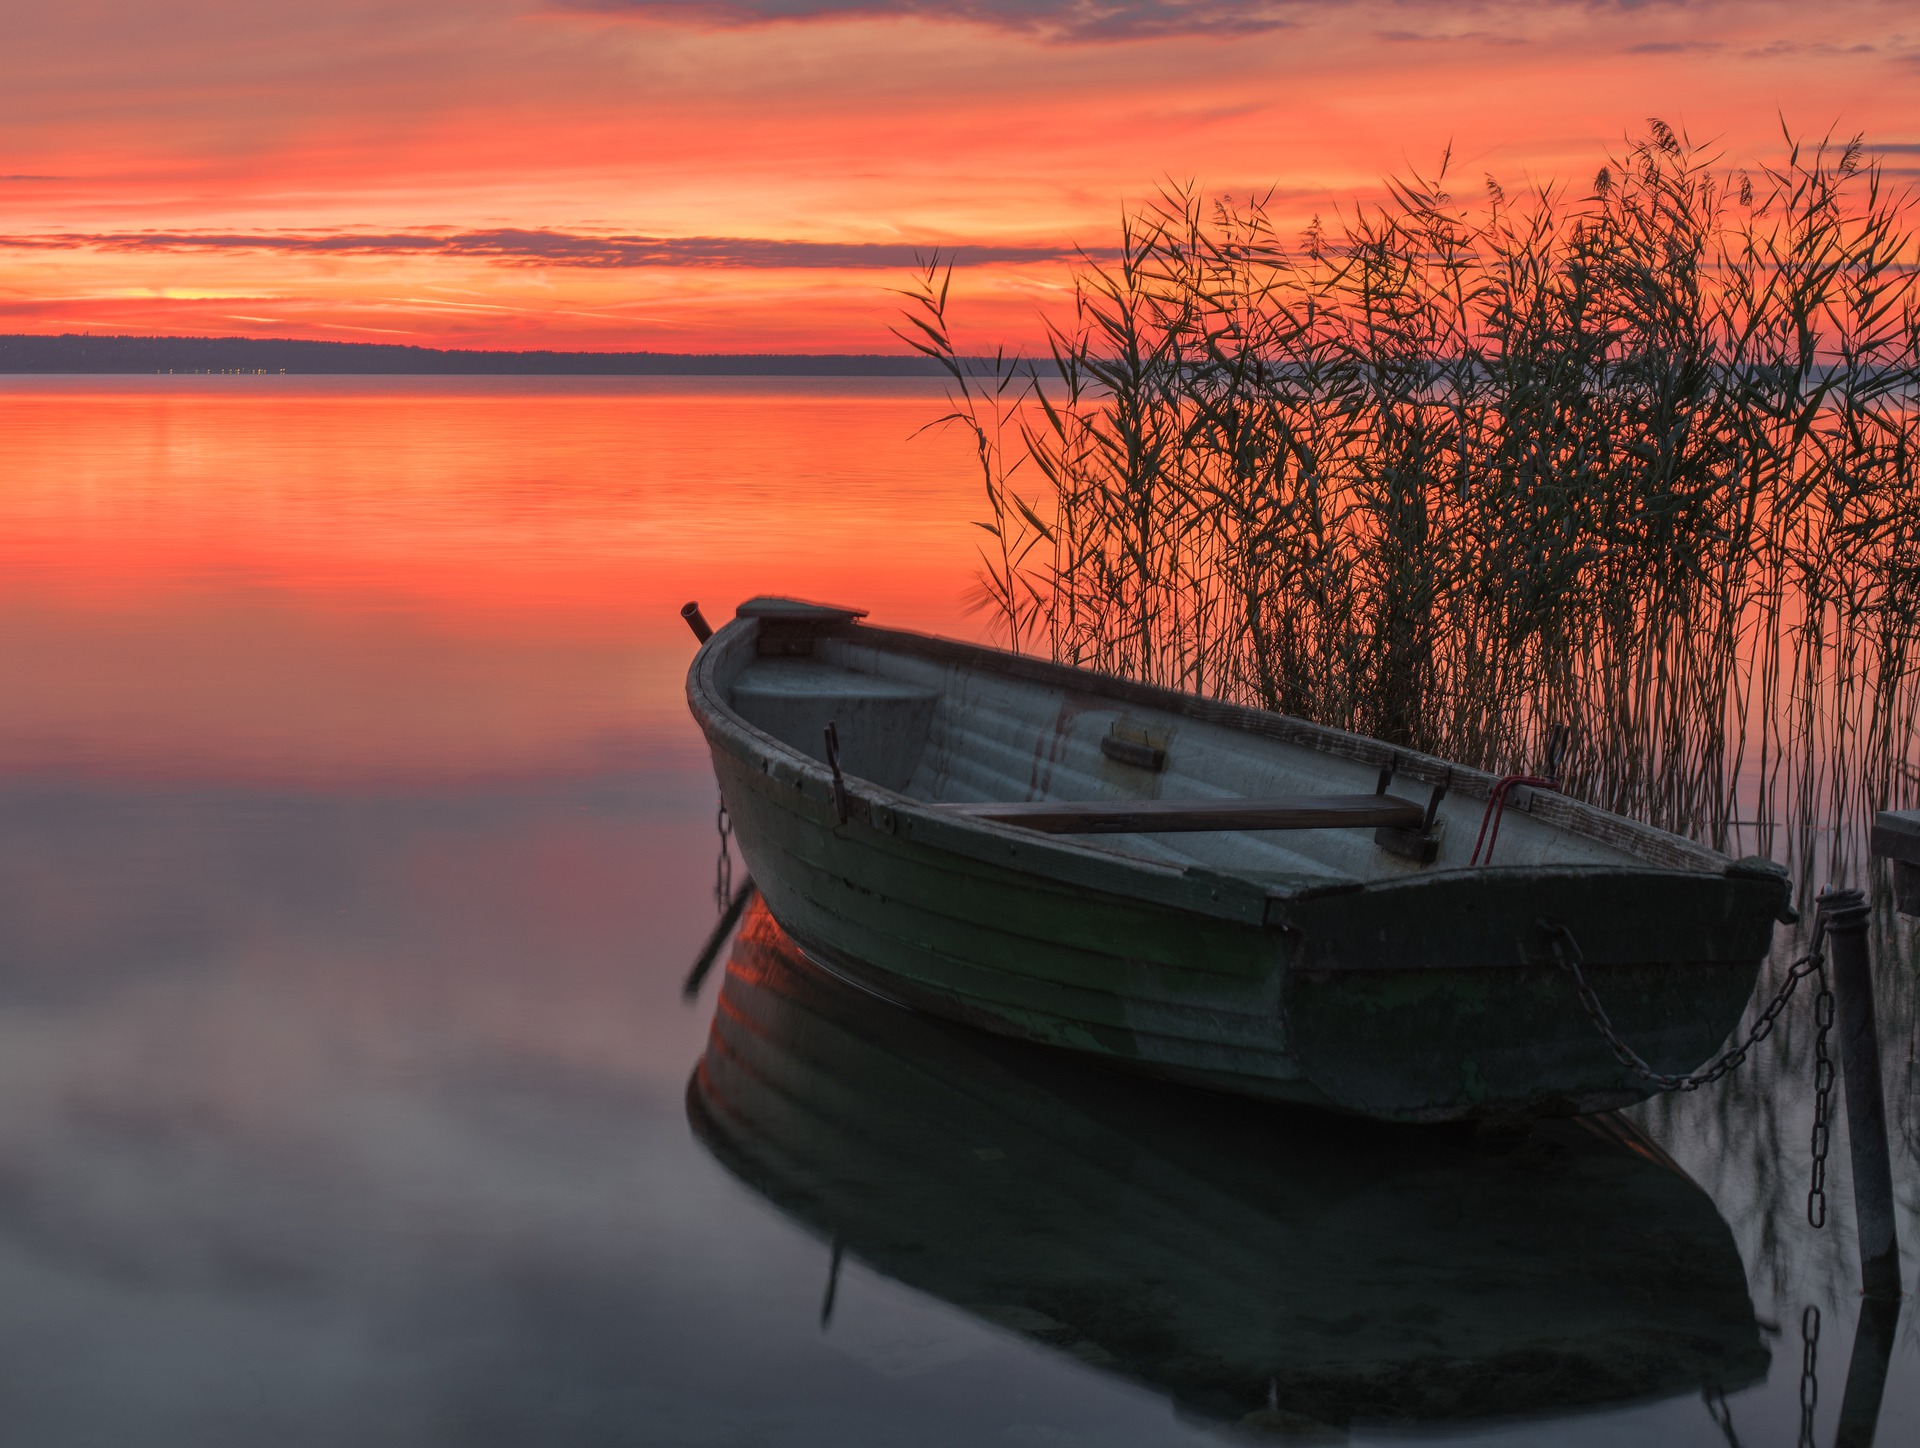
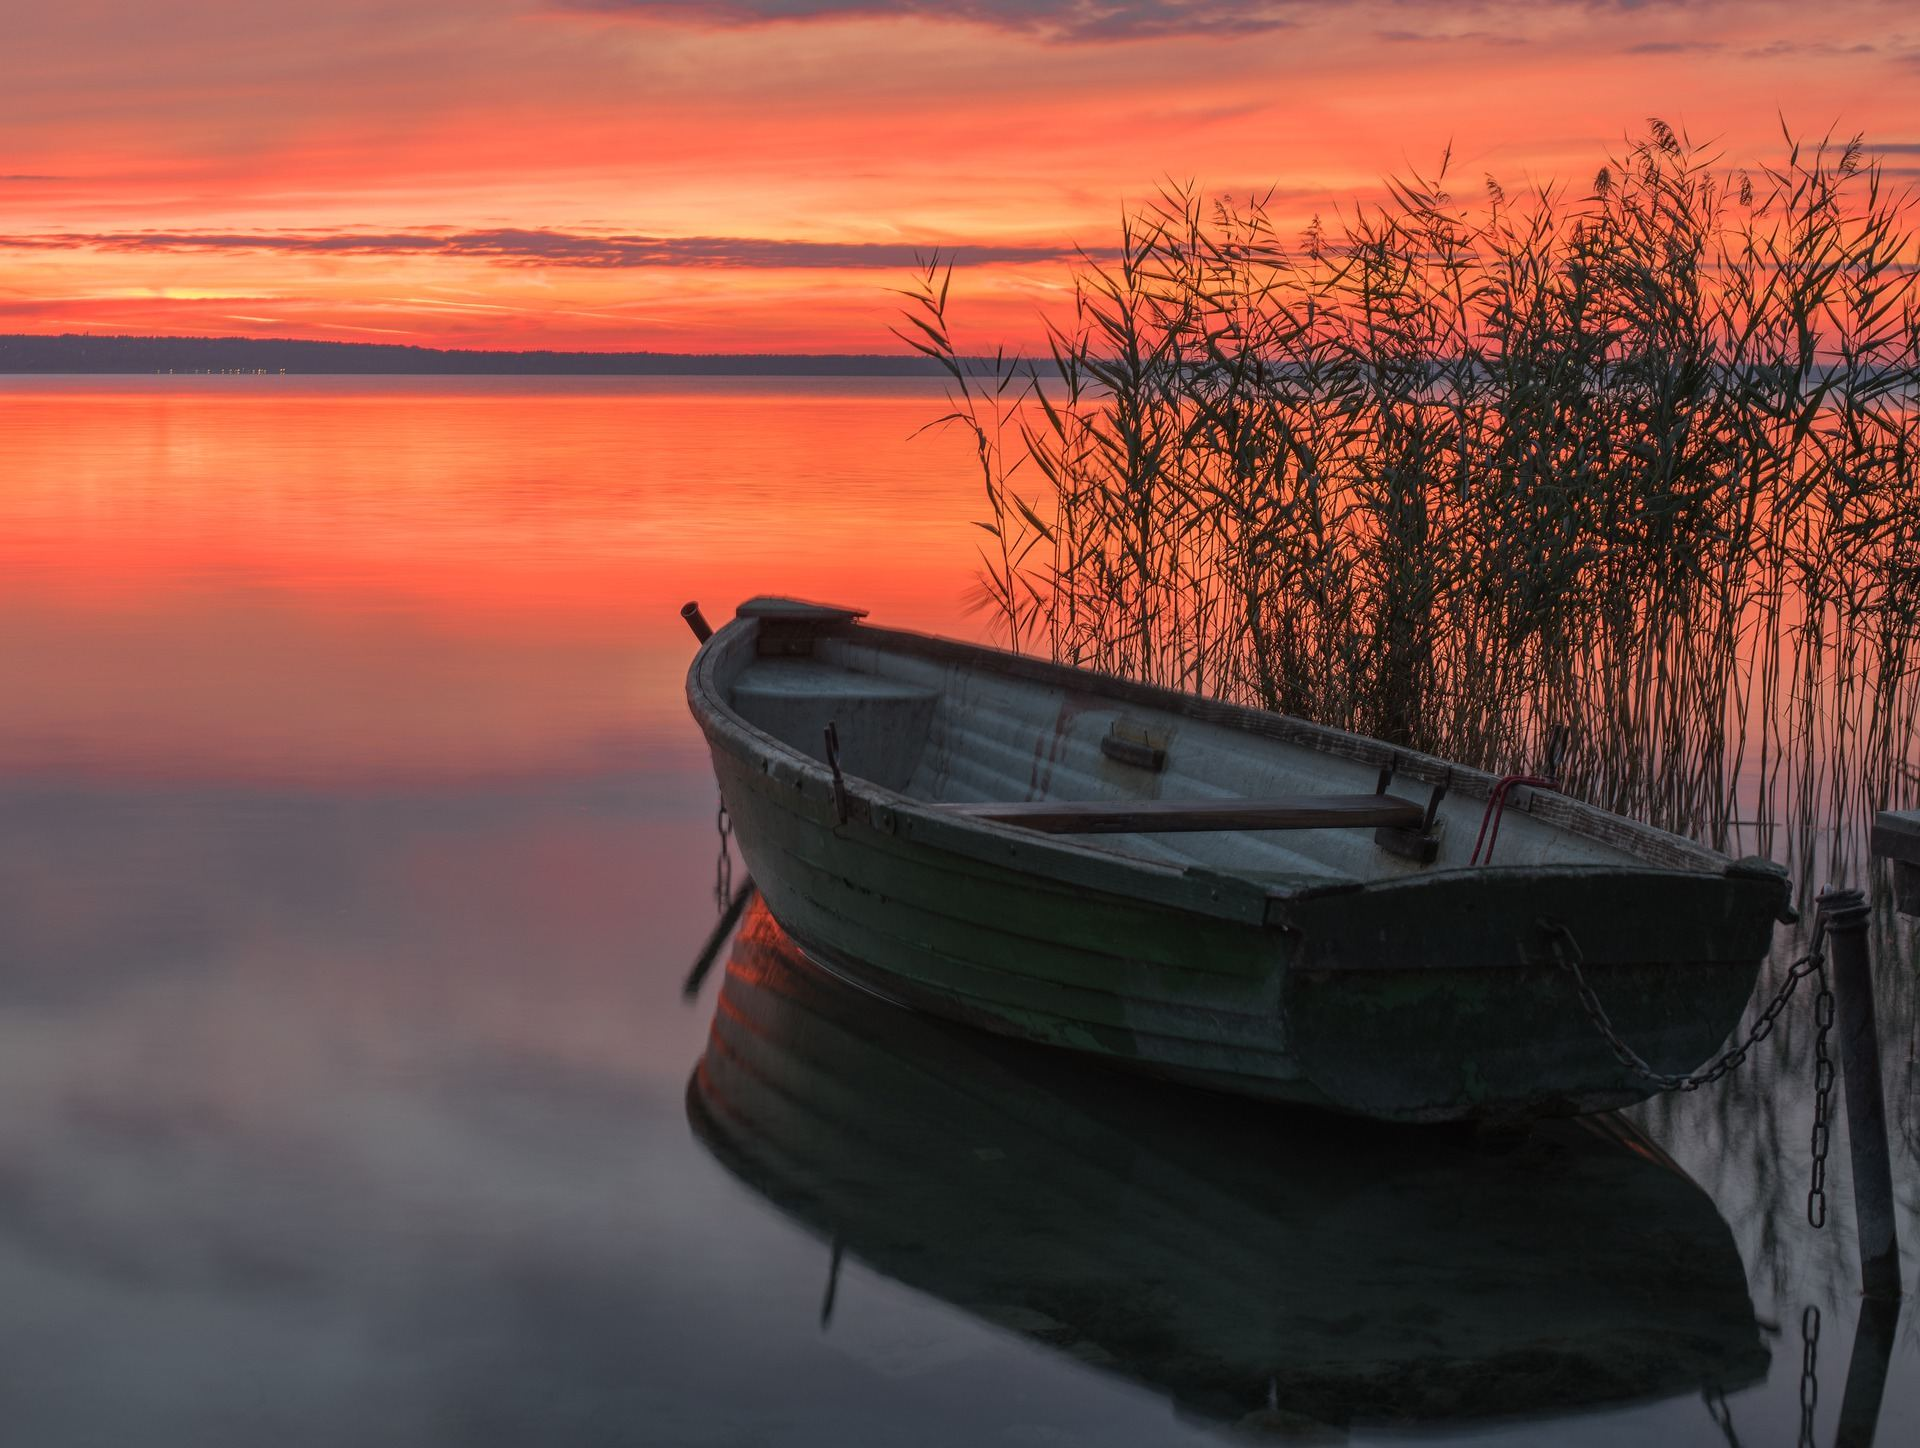
seo

diff --git a/index_de.html b/index_de.html
@@ -5,17 +5,44 @@
     <meta charset="utf-8">
     <meta content="width=device-width, initial-scale=1.0" name="viewport">
 
-    <title>Urlaub am Plattensee | Familienfreundliche Apartments</title>
-    <meta name="description" content="Komfortable, familienfreundliche Apartments in Balatonlelle. Zwei Apartments mit separatem Eingang mit 3-3 Zimmern für 6-6 Personen.">
-    <meta name="keywords" content="Apartments, Urlaub, Balaton, Balatonlelle, Plattensee">
-    <meta property="og:title" content="Urlaub am Plattensee | Familienfreundliche Apartments">
-    <meta property="og:description" content="Komfortable, familienfreundliche Apartments in Balatonlelle. Zwei Apartments mit separatem Eingang mit 3-3 Zimmern für 6-6 Personen.">
+    <title>Apartments in Balatonlelle | Klimatisierter Urlaub am Plattensee</title>
+    <meta name="description" content="Klimatisierte, familienfreundliche Apartments in Balatonlelle, 10-15 Minuten zu Fuß vom Plattensee. Zwei Apartments mit separatem Eingang für je 6 Personen, Garten und Pool.">
+    <meta name="keywords" content="Apartment Balatonlelle, Unterkunft Plattensee, Urlaub am Balaton, klimatisiertes Apartment, familienfreundlich Balaton, Südufer Plattensee">
+    <meta name="robots" content="index, follow">
+    <meta name="author" content="Gisz Bt.">
+    <meta name="theme-color" content="#0a3e4f">
+
+    <!-- Canonical + language alternates (hreflang) -->
+    <link rel="canonical" href="https://szabi84.github.io/holiday/index_de.html">
+    <link rel="alternate" hreflang="hu" href="https://szabi84.github.io/holiday/index.html">
+    <link rel="alternate" hreflang="en" href="https://szabi84.github.io/holiday/index_en.html">
+    <link rel="alternate" hreflang="de" href="https://szabi84.github.io/holiday/index_de.html">
+    <link rel="alternate" hreflang="x-default" href="https://szabi84.github.io/holiday/index.html">
+
+    <!-- Open Graph -->
+    <meta property="og:site_name" content="Urlaub in Balatonlelle">
+    <meta property="og:title" content="Apartments in Balatonlelle | Klimatisierter Urlaub am Plattensee">
+    <meta property="og:description" content="Klimatisierte, familienfreundliche Apartments in Balatonlelle, 10-15 Minuten zu Fuß vom Plattensee. Zwei Apartments mit separatem Eingang für je 6 Personen, Garten und Pool.">
     <meta property="og:type" content="website">
-    <meta property="og:image" content="assets/img/hero-bg.jpg">
+    <meta property="og:url" content="https://szabi84.github.io/holiday/index_de.html">
+    <meta property="og:image" content="https://szabi84.github.io/holiday/assets/img/og-image.jpg">
+    <meta property="og:image:width" content="1200">
+    <meta property="og:image:height" content="630">
+    <meta property="og:image:alt" content="Sonnenuntergang am Plattensee mit einem Ruderboot">
+    <meta property="og:locale" content="de_DE">
+    <meta property="og:locale:alternate" content="hu_HU">
+    <meta property="og:locale:alternate" content="en_US">
+
+    <!-- Twitter Card -->
+    <meta name="twitter:card" content="summary_large_image">
+    <meta name="twitter:title" content="Apartments in Balatonlelle | Klimatisierter Urlaub am Plattensee">
+    <meta name="twitter:description" content="Klimatisierte, familienfreundliche Apartments in Balatonlelle, 10-15 Minuten zu Fuß vom Plattensee. Zwei Apartments mit separatem Eingang für je 6 Personen, Garten und Pool.">
+    <meta name="twitter:image" content="https://szabi84.github.io/holiday/assets/img/og-image.jpg">
 
     <link href="assets/img/favicon.ico" rel="icon">
     <link href="assets/img/favicon.ico" rel="apple-touch-icon">
 
+    <link rel="preload" as="image" href="assets/img/hero-bg.jpg" fetchpriority="high">
     <link rel="preconnect" href="https://fonts.googleapis.com">
     <link rel="preconnect" href="https://fonts.gstatic.com" crossorigin>
     <link href="https://fonts.googleapis.com/css2?family=Fraunces:opsz,wght@9..144,500;9..144,600;9..144,700&family=Inter:wght@400;500;600;700&display=swap" rel="stylesheet">
@@ -23,6 +50,8 @@
     <link href="assets/vendor/boxicons/css/boxicons.min.css" rel="stylesheet">
 
     <link href="assets/css/style.css" rel="stylesheet">
+
+    <script type="application/ld+json">{"@context": "https://schema.org", "@type": "LodgingBusiness", "name": "Urlaub in Balatonlelle", "description": "Klimatisierte, familienfreundliche Apartments in Balatonlelle, 10-15 Minuten zu Fuß vom Plattensee. Zwei Apartments mit separatem Eingang für je 6 Personen, Garten und Pool.", "url": "https://szabi84.github.io/holiday/index_de.html", "image": ["https://szabi84.github.io/holiday/assets/img/og-image.jpg", "https://szabi84.github.io/holiday/assets/img/hero-bg.jpg"], "telephone": "+36 20 200 1962", "email": "gergye.ferencne@gmail.com", "priceRange": "€€", "address": {"@type": "PostalAddress", "streetAddress": "Jánoskert u. 8.", "addressLocality": "Balatonlelle", "postalCode": "8638", "addressCountry": "HU"}, "geo": {"@type": "GeoCoordinates", "latitude": 46.77759, "longitude": 17.696441}, "sameAs": ["https://www.facebook.com/holiday.giszbt.hu"], "inLanguage": "de", "amenityFeature": [{"@type": "LocationFeatureSpecification", "name": "Air conditioning", "value": true}, {"@type": "LocationFeatureSpecification", "name": "Free WiFi", "value": true}, {"@type": "LocationFeatureSpecification", "name": "Free parking", "value": true}, {"@type": "LocationFeatureSpecification", "name": "Swimming pool", "value": true}]}</script>
 </head>
 
 <body>

diff --git a/index_en.html b/index_en.html
@@ -5,17 +5,44 @@
     <meta charset="utf-8">
     <meta content="width=device-width, initial-scale=1.0" name="viewport">
 
-    <title>Holiday in Balatonlelle | Family-friendly apartments</title>
-    <meta name="description" content="Comfortable, family-friendly apartments in Balatonlelle. Two apartments with separate entrances with 3-3 rooms for 6-6 people.">
-    <meta name="keywords" content="Apartment, Accommodation, Holiday, Balaton, Balatonlelle">
-    <meta property="og:title" content="Holiday in Balatonlelle | Family-friendly apartments">
-    <meta property="og:description" content="Comfortable, family-friendly apartments in Balatonlelle. Two apartments with separate entrances with 3-3 rooms for 6-6 people.">
+    <title>Apartments in Balatonlelle | Air-conditioned family holiday rental</title>
+    <meta name="description" content="Air-conditioned, family-friendly apartments in Balatonlelle, a 10-15 minute walk from Lake Balaton. Two apartments with separate entrances for 6 people each, garden and pool.">
+    <meta name="keywords" content="apartment Balatonlelle, Lake Balaton accommodation, holiday rental Balaton, air-conditioned apartment, family-friendly Balaton, south shore Lake Balaton">
+    <meta name="robots" content="index, follow">
+    <meta name="author" content="Gisz Bt.">
+    <meta name="theme-color" content="#0a3e4f">
+
+    <!-- Canonical + language alternates (hreflang) -->
+    <link rel="canonical" href="https://szabi84.github.io/holiday/index_en.html">
+    <link rel="alternate" hreflang="hu" href="https://szabi84.github.io/holiday/index.html">
+    <link rel="alternate" hreflang="en" href="https://szabi84.github.io/holiday/index_en.html">
+    <link rel="alternate" hreflang="de" href="https://szabi84.github.io/holiday/index_de.html">
+    <link rel="alternate" hreflang="x-default" href="https://szabi84.github.io/holiday/index.html">
+
+    <!-- Open Graph -->
+    <meta property="og:site_name" content="Holiday in Balatonlelle">
+    <meta property="og:title" content="Apartments in Balatonlelle | Air-conditioned family holiday rental">
+    <meta property="og:description" content="Air-conditioned, family-friendly apartments in Balatonlelle, a 10-15 minute walk from Lake Balaton. Two apartments with separate entrances for 6 people each, garden and pool.">
     <meta property="og:type" content="website">
-    <meta property="og:image" content="assets/img/hero-bg.jpg">
+    <meta property="og:url" content="https://szabi84.github.io/holiday/index_en.html">
+    <meta property="og:image" content="https://szabi84.github.io/holiday/assets/img/og-image.jpg">
+    <meta property="og:image:width" content="1200">
+    <meta property="og:image:height" content="630">
+    <meta property="og:image:alt" content="Sunset over Lake Balaton with a rowing boat">
+    <meta property="og:locale" content="en_US">
+    <meta property="og:locale:alternate" content="hu_HU">
+    <meta property="og:locale:alternate" content="de_DE">
+
+    <!-- Twitter Card -->
+    <meta name="twitter:card" content="summary_large_image">
+    <meta name="twitter:title" content="Apartments in Balatonlelle | Air-conditioned family holiday rental">
+    <meta name="twitter:description" content="Air-conditioned, family-friendly apartments in Balatonlelle, a 10-15 minute walk from Lake Balaton. Two apartments with separate entrances for 6 people each, garden and pool.">
+    <meta name="twitter:image" content="https://szabi84.github.io/holiday/assets/img/og-image.jpg">
 
     <link href="assets/img/favicon.ico" rel="icon">
     <link href="assets/img/favicon.ico" rel="apple-touch-icon">
 
+    <link rel="preload" as="image" href="assets/img/hero-bg.jpg" fetchpriority="high">
     <link rel="preconnect" href="https://fonts.googleapis.com">
     <link rel="preconnect" href="https://fonts.gstatic.com" crossorigin>
     <link href="https://fonts.googleapis.com/css2?family=Fraunces:opsz,wght@9..144,500;9..144,600;9..144,700&family=Inter:wght@400;500;600;700&display=swap" rel="stylesheet">
@@ -23,6 +50,8 @@
     <link href="assets/vendor/boxicons/css/boxicons.min.css" rel="stylesheet">
 
     <link href="assets/css/style.css" rel="stylesheet">
+
+    <script type="application/ld+json">{"@context": "https://schema.org", "@type": "LodgingBusiness", "name": "Holiday in Balatonlelle", "description": "Air-conditioned, family-friendly apartments in Balatonlelle, a 10-15 minute walk from Lake Balaton. Two apartments with separate entrances for 6 people each, garden and pool.", "url": "https://szabi84.github.io/holiday/index_en.html", "image": ["https://szabi84.github.io/holiday/assets/img/og-image.jpg", "https://szabi84.github.io/holiday/assets/img/hero-bg.jpg"], "telephone": "+36 20 200 1962", "email": "gergye.ferencne@gmail.com", "priceRange": "€€", "address": {"@type": "PostalAddress", "streetAddress": "Jánoskert u. 8.", "addressLocality": "Balatonlelle", "postalCode": "8638", "addressCountry": "HU"}, "geo": {"@type": "GeoCoordinates", "latitude": 46.77759, "longitude": 17.696441}, "sameAs": ["https://www.facebook.com/holiday.giszbt.hu"], "inLanguage": "en", "amenityFeature": [{"@type": "LocationFeatureSpecification", "name": "Air conditioning", "value": true}, {"@type": "LocationFeatureSpecification", "name": "Free WiFi", "value": true}, {"@type": "LocationFeatureSpecification", "name": "Free parking", "value": true}, {"@type": "LocationFeatureSpecification", "name": "Swimming pool", "value": true}]}</script>
 </head>
 
 <body>

diff --git a/index.html b/index.html
@@ -5,17 +5,44 @@
     <meta charset="utf-8">
     <meta content="width=device-width, initial-scale=1.0" name="viewport">
 
-    <title>Nyaralás Balatonlellén | Családbarát apartmanok</title>
-    <meta name="description" content="Kellemes, családbarát apartmanok Balatonlellen. Két különbejáratú apartman 3-3 szobával 6-6 főnek.">
-    <meta name="keywords" content="Apartman, Szállás, Balaton, Balatonlelle">
-    <meta property="og:title" content="Nyaralás Balatonlellén | Családbarát apartmanok">
-    <meta property="og:description" content="Kellemes, családbarát apartmanok Balatonlellen. Két különbejáratú apartman 3-3 szobával 6-6 főnek.">
+    <title>Apartman Balatonlellén | Klimatizált, családbarát szállás a Balatonnál</title>
+    <meta name="description" content="Klimatizált, családbarát apartmanok Balatonlellén, 10-15 perc sétára a Balatontól. Két különbejáratú, 6-6 fős apartman kertes udvarral, kerti medencével.">
+    <meta name="keywords" content="apartman Balatonlelle, szállás Balatonlelle, balatoni nyaralás, klimatizált apartman, családbarát szállás Balaton, Balaton déli part szállás">
+    <meta name="robots" content="index, follow">
+    <meta name="author" content="Gisz Bt.">
+    <meta name="theme-color" content="#0a3e4f">
+
+    <!-- Canonical + language alternates (hreflang) -->
+    <link rel="canonical" href="https://szabi84.github.io/holiday/index.html">
+    <link rel="alternate" hreflang="hu" href="https://szabi84.github.io/holiday/index.html">
+    <link rel="alternate" hreflang="en" href="https://szabi84.github.io/holiday/index_en.html">
+    <link rel="alternate" hreflang="de" href="https://szabi84.github.io/holiday/index_de.html">
+    <link rel="alternate" hreflang="x-default" href="https://szabi84.github.io/holiday/index.html">
+
+    <!-- Open Graph -->
+    <meta property="og:site_name" content="Nyaralás Balatonlellén">
+    <meta property="og:title" content="Apartman Balatonlellén | Klimatizált, családbarát szállás a Balatonnál">
+    <meta property="og:description" content="Klimatizált, családbarát apartmanok Balatonlellén, 10-15 perc sétára a Balatontól. Két különbejáratú, 6-6 fős apartman kertes udvarral, kerti medencével.">
     <meta property="og:type" content="website">
-    <meta property="og:image" content="assets/img/hero-bg.jpg">
+    <meta property="og:url" content="https://szabi84.github.io/holiday/index.html">
+    <meta property="og:image" content="https://szabi84.github.io/holiday/assets/img/og-image.jpg">
+    <meta property="og:image:width" content="1200">
+    <meta property="og:image:height" content="630">
+    <meta property="og:image:alt" content="Naplemente a Balatonon egy csónakkal">
+    <meta property="og:locale" content="hu_HU">
+    <meta property="og:locale:alternate" content="en_US">
+    <meta property="og:locale:alternate" content="de_DE">
+
+    <!-- Twitter Card -->
+    <meta name="twitter:card" content="summary_large_image">
+    <meta name="twitter:title" content="Apartman Balatonlellén | Klimatizált, családbarát szállás a Balatonnál">
+    <meta name="twitter:description" content="Klimatizált, családbarát apartmanok Balatonlellén, 10-15 perc sétára a Balatontól. Két különbejáratú, 6-6 fős apartman kertes udvarral, kerti medencével.">
+    <meta name="twitter:image" content="https://szabi84.github.io/holiday/assets/img/og-image.jpg">
 
     <link href="assets/img/favicon.ico" rel="icon">
     <link href="assets/img/favicon.ico" rel="apple-touch-icon">
 
+    <link rel="preload" as="image" href="assets/img/hero-bg.jpg" fetchpriority="high">
     <link rel="preconnect" href="https://fonts.googleapis.com">
     <link rel="preconnect" href="https://fonts.gstatic.com" crossorigin>
     <link href="https://fonts.googleapis.com/css2?family=Fraunces:opsz,wght@9..144,500;9..144,600;9..144,700&family=Inter:wght@400;500;600;700&display=swap" rel="stylesheet">
@@ -23,6 +50,8 @@
     <link href="assets/vendor/boxicons/css/boxicons.min.css" rel="stylesheet">
 
     <link href="assets/css/style.css" rel="stylesheet">
+
+    <script type="application/ld+json">{"@context": "https://schema.org", "@type": "LodgingBusiness", "name": "Nyaralás Balatonlellén", "description": "Klimatizált, családbarát apartmanok Balatonlellén, 10-15 perc sétára a Balatontól. Két különbejáratú, 6-6 fős apartman kertes udvarral, kerti medencével.", "url": "https://szabi84.github.io/holiday/index.html", "image": ["https://szabi84.github.io/holiday/assets/img/og-image.jpg", "https://szabi84.github.io/holiday/assets/img/hero-bg.jpg"], "telephone": "+36 20 200 1962", "email": "gergye.ferencne@gmail.com", "priceRange": "€€", "address": {"@type": "PostalAddress", "streetAddress": "Jánoskert u. 8.", "addressLocality": "Balatonlelle", "postalCode": "8638", "addressCountry": "HU"}, "geo": {"@type": "GeoCoordinates", "latitude": 46.77759, "longitude": 17.696441}, "sameAs": ["https://www.facebook.com/holiday.giszbt.hu"], "inLanguage": "hu", "amenityFeature": [{"@type": "LocationFeatureSpecification", "name": "Air conditioning", "value": true}, {"@type": "LocationFeatureSpecification", "name": "Free WiFi", "value": true}, {"@type": "LocationFeatureSpecification", "name": "Free parking", "value": true}, {"@type": "LocationFeatureSpecification", "name": "Swimming pool", "value": true}]}</script>
 </head>
 
 <body>
